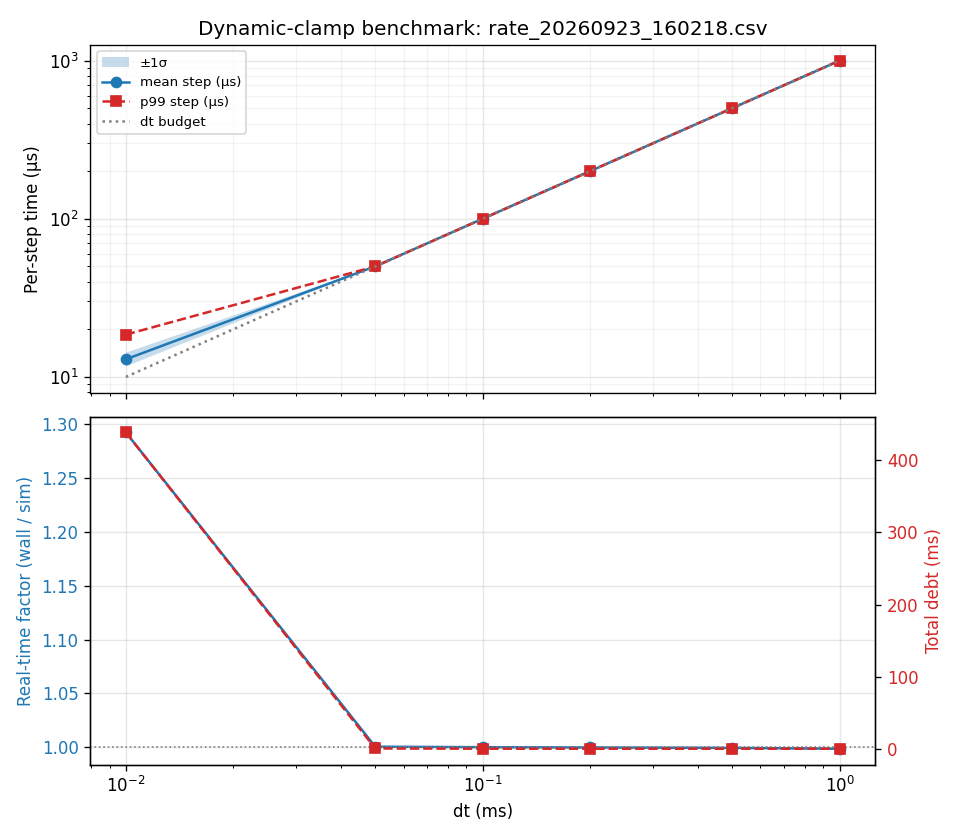
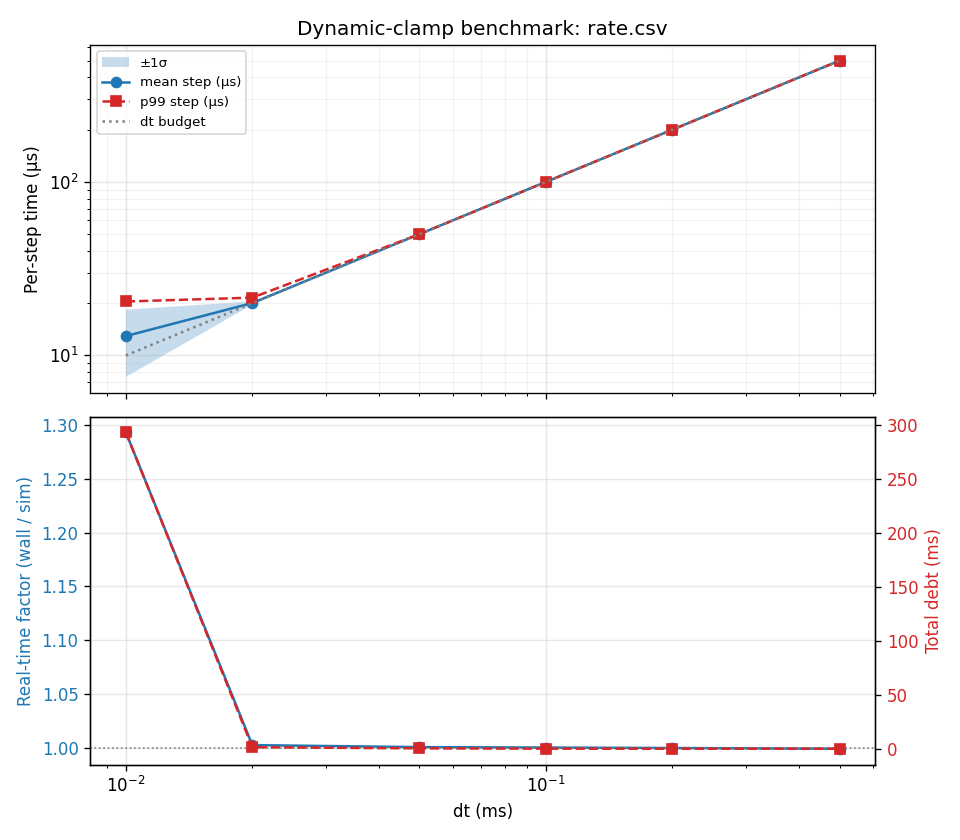
minor figure update

diff --git a/benchmarks/sweep.py b/benchmarks/sweep.py
@@ -34,8 +34,8 @@ RUNNER = THIS_DIR / "bench_runner.py"
 RESULTS_DIR = THIS_DIR / "results"
 
 
-DEFAULT_SIZES = [100, 250, 500, 1000, 2000, 5000]
-DEFAULT_DTS_MS = [0.01, 0.05, 0.1, 0.2, 0.5, 1.0]
+DEFAULT_SIZES = [100, 250, 500, 1000, 2000, 5000, 10000] #Density of connections can matter here but for now this is simple
+DEFAULT_DTS_MS = [0.01, 0.02, 0.05, 0.1, 0.2, 0.5] #in ms
 QUICK_SIZES = [100, 500, 1000]
 QUICK_DTS_MS = [0.1, 0.2, 0.5]
 

diff --git a/demo_net_ICHIYAMA_2022.py b/demo_net_ICHIYAMA_2022.py
@@ -2,6 +2,9 @@ from brian2 import *
 from ni_interface.ni_brian2 import *
 import os
 import time
+import matplotlib
+
+matplotlib.use('agg')
 seed(43)
 DYN_CLAMP = True
 defaultclock.dt = 0.1*ms
